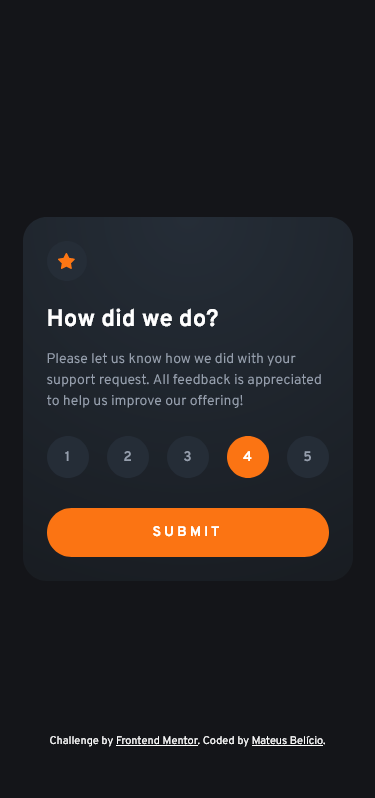
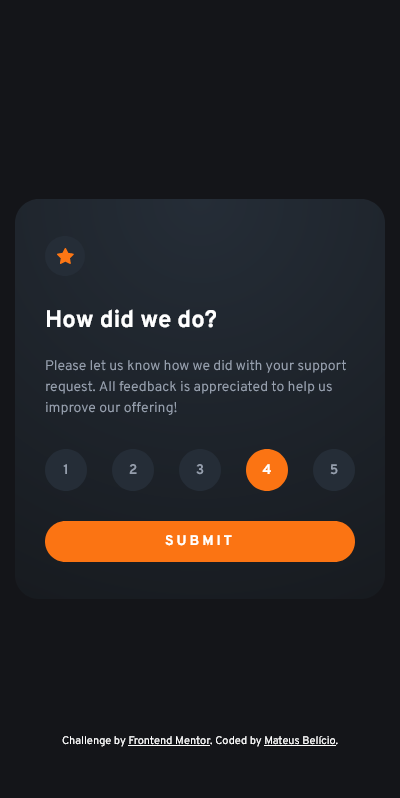
New screenshots

diff --git a/README.md b/README.md
@@ -30,8 +30,10 @@ Users should be able to:
 
 ### Screenshot
 
-![](./images/results/mobile-rating-result.png)
-![](./images/results/mobile-thanks-result.png)
+<div style="display: flex; align-items: center; justify-content: center; gap: 10px; margin: 20px auto;">
+  <img src="./images/results/mobile-rating-result.png">
+  <img src="./images/results/mobile-thanks-result.png">
+</div>
 
 ### Links
 
